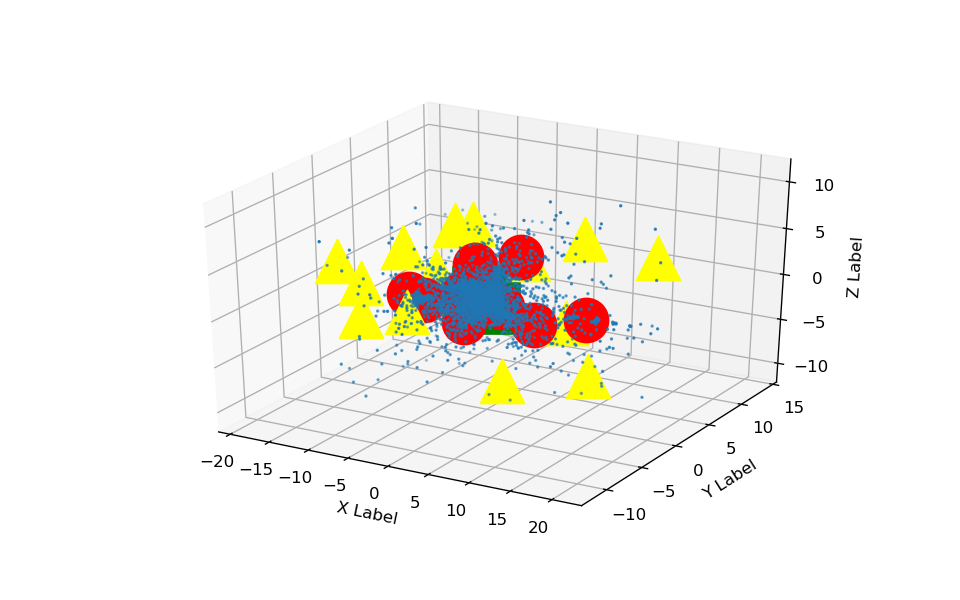
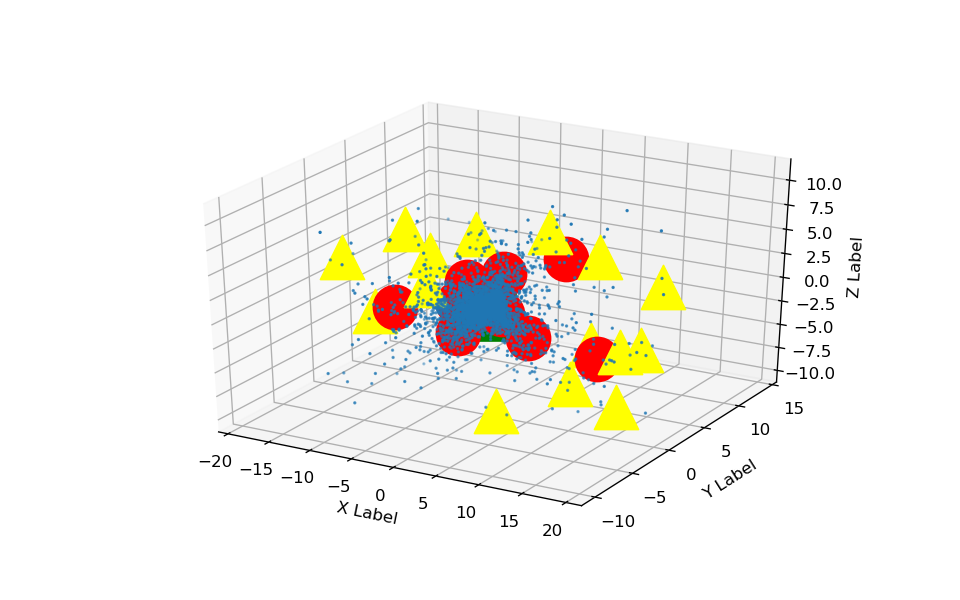
fix connectet

diff --git a/Step3/Plotter.py b/Step3/Plotter.py
@@ -1,47 +1,20 @@
+import matplotlib as matplotlib
 import networkx as nx
 import numpy as np
 from sklearn import decomposition
 from sklearn.preprocessing import StandardScaler
-from Step3.algorithms import KMeans, BaseGraph, ConnectedComponents, SpectralClustering, Combined
+from Step3.algorithms import KMeans, BaseGraph, \
+    ConnectedComponents, SpectralClustering, Combined
+
 import matplotlib.pyplot as plt
 
+# matplotlib.use('MacOSX')
+
 # =============================================== Help Methods ===============================================
-def union_to_one_componenet(sets_3dim_vecs):
-    # for set in sets_3dim_vecs:
-    union_3dim = list()
-    for nodes_set in sets_3dim_vecs:
-        for node in nodes_set:
-            union_3dim.append([node[0], node[1], node[2]])
-    union_3dim = np.array(union_3dim)
-    return union_3dim
-
-def get_connect_nodes_by_64dim(G, model):
-    connected_nodes_sets_64dim = []
-    connected_nodes_by_id = list(nx.connected_components(G))
-    for group in connected_nodes_by_id:
-        set_of_64dim_vectors = []
-        for node_id in group:
-            set_of_64dim_vectors.append(model.get_vector(node_id))
-
-        connected_nodes_sets_64dim.append(set_of_64dim_vectors)
-    return connected_nodes_sets_64dim
-
-
-def get_3dim_sets_from_64dim(connected_nodes_sets_64dim):
-    sets_of_3dim = []
-    # PCA Algorithm
-    pca = decomposition.PCA(n_components=3)
-    scaler =StandardScaler()#Normalizer(norm='max')
-    for set_of_64dim in connected_nodes_sets_64dim:
-        vectors64_scale = scaler.fit_transform(set_of_64dim)
-        sets_of_3dim.append(pca.fit_transform(vectors64_scale))
-    return sets_of_3dim
-
-
 def make_PCA(G, model):
-    sets_of_64dim = get_connect_nodes_by_64dim(G, model)
-    return get_3dim_sets_from_64dim(sets_of_64dim)
-
+    pca = decomposition.PCA(n_components=3)
+    all_vectors_after_pca = pca.fit_transform(StandardScaler().fit_transform(model.vectors))
+    return all_vectors_after_pca
 
 # =============================================== Plotter ===============================================
 # This class is responsible to plot
@@ -51,21 +24,19 @@ class Plotter:
     # G is networkx
     # model is after node2vec embedded
     def __init__(self, G, model):
-        all_connected_componenets_after_pca = make_PCA(G, model)
-
-        one_componenet_after_pca = union_to_one_componenet(all_connected_componenets_after_pca)
+        all_vectors_after_pca = make_PCA(G, model)
 
         # Make base graph (without algorithm)
-        self.BaseGraph = BaseGraph.BaseGraph(one_componenet_after_pca)
+        self.BaseGraph = BaseGraph.BaseGraph(all_vectors_after_pca)
 
         # Make Kmeans
-        self.kmeans = KMeans.KMeans(one_componenet_after_pca, "red")
+        self.kmeans = KMeans.KMeans(all_vectors_after_pca, "red")
 
         # Make Connected Componenet
-        self.cc = ConnectedComponents.ConnectedComponents(one_componenet_after_pca,all_connected_componenets_after_pca, "green")
+        self.cc = ConnectedComponents.ConnectedComponents(all_vectors_after_pca, G, "green")
 
         # Make Spectral
-        self.spectral = SpectralClustering.SpectralClustering(one_componenet_after_pca, "yellow")
+        self.spectral = SpectralClustering.SpectralClustering(all_vectors_after_pca, "yellow")
 
         #Make Combined
         self.Combined = Combined.Combined( self.kmeans,self.spectral,self.cc)

diff --git a/Step3/algorithms/ConnectedComponents.py b/Step3/algorithms/ConnectedComponents.py
@@ -1,4 +1,4 @@
-
+import networkx as nx
 import matplotlib.pyplot as plt
 import numpy as np
 from sklearn.preprocessing import MinMaxScaler
@@ -23,10 +23,24 @@ def ConnectedComponents_center_radius(set_3dim_vec):
             max_dist[i] = max(max_dist[i],dist[i])
     return (center,max(max_dist[0],max_dist[1],max_dist[2])/2)
 
+def make_vec3D_connected_components(G, vectors_3dim):
+    # makeDictionary_Id_vector
+    id2vec_dic = {}
+    for id, vec in zip(G.nodes(),vectors_3dim):
+        id2vec_dic[id] = vec
+    vec3D_connected_components = []
+    for group in list(nx.connected_components(G)):
+        vec3D_group = []
+        for id in group:
+            vec3D_group.append(id2vec_dic[id])
+        vec3D_connected_components.append(vec3D_group)
+    return vec3D_connected_components
+
 
 
 class ConnectedComponents:
-    def __init__(self, vectors_3dim, sets_vectors_3dim, color):
+    def __init__(self, vectors_3dim, G, color):
+        sets_vectors_3dim = make_vec3D_connected_components(G, vectors_3dim)
         self.sets_vectors_3dim = sets_vectors_3dim
         self.vectors_3dim = vectors_3dim
         self.color = color
@@ -64,3 +78,5 @@ class ConnectedComponents:
         ax.set_zlabel('Z Label')
 
         return plt
+
+
